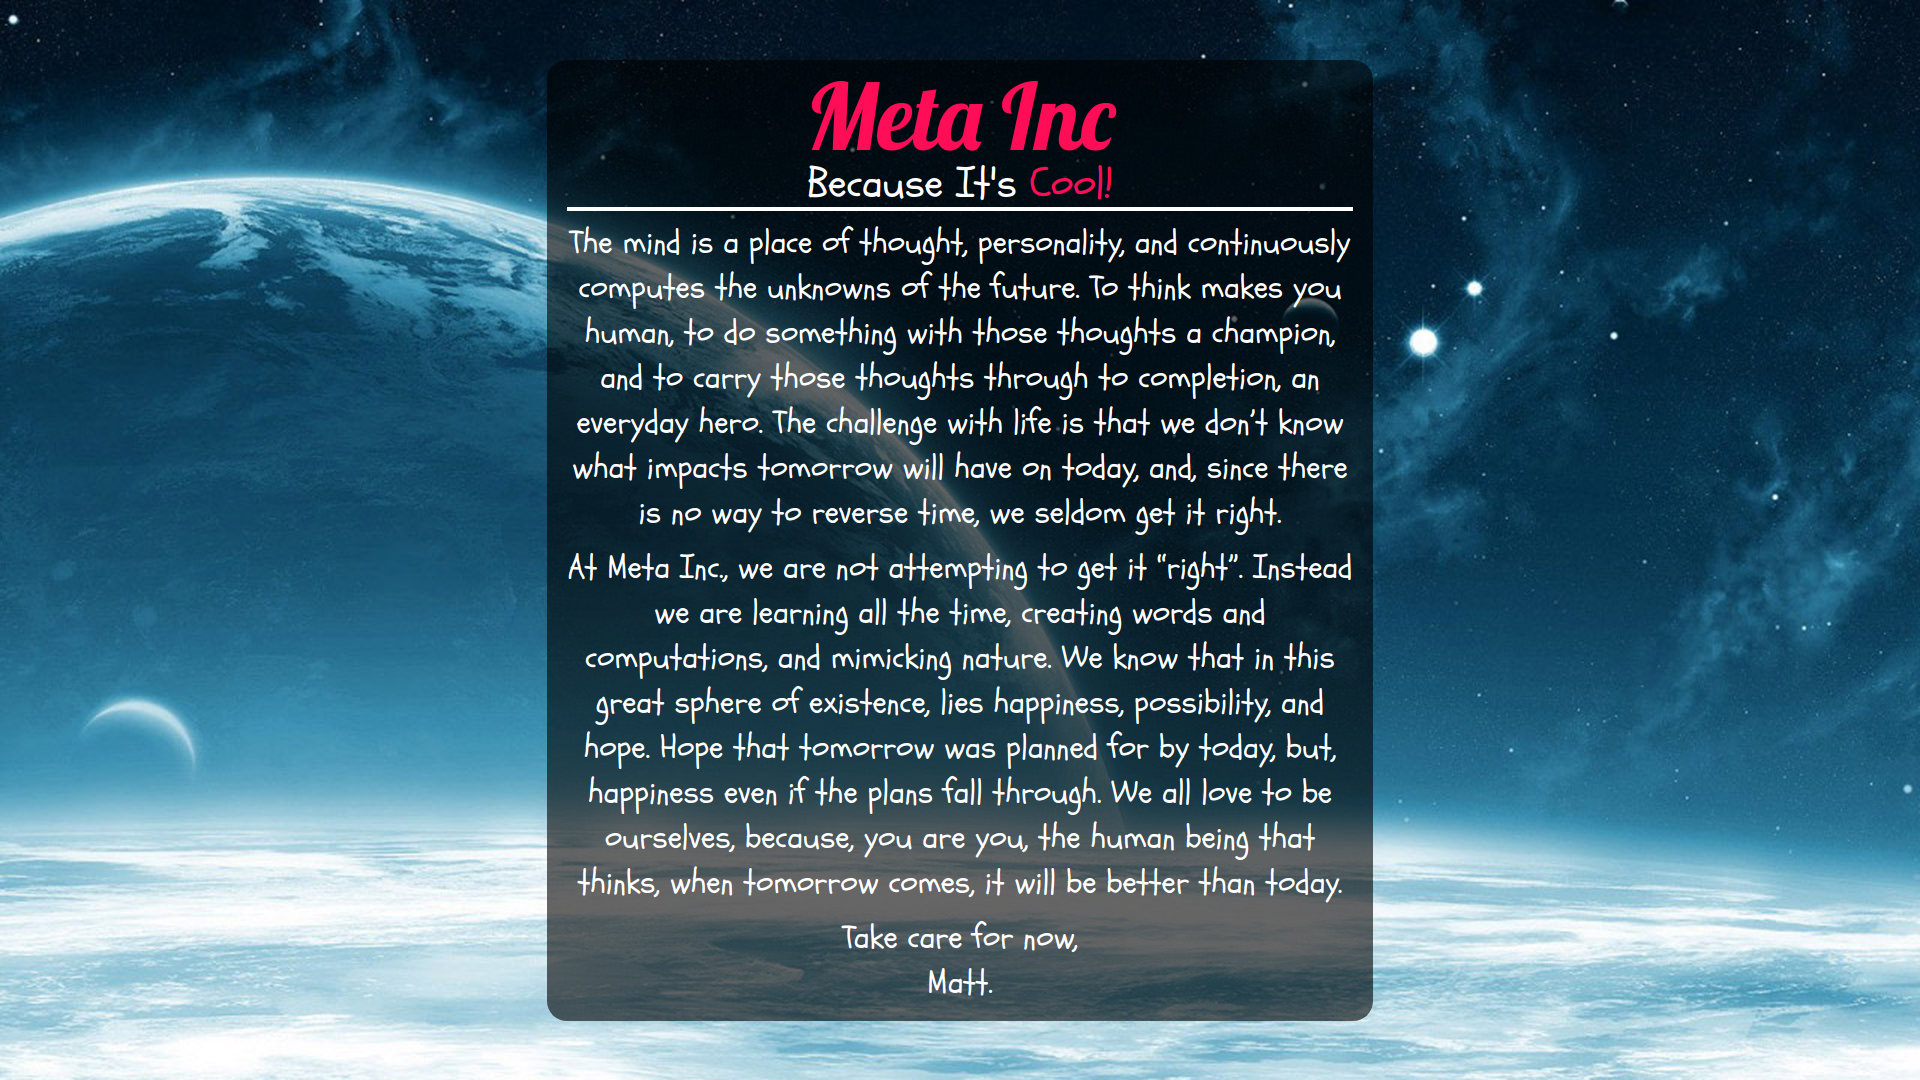
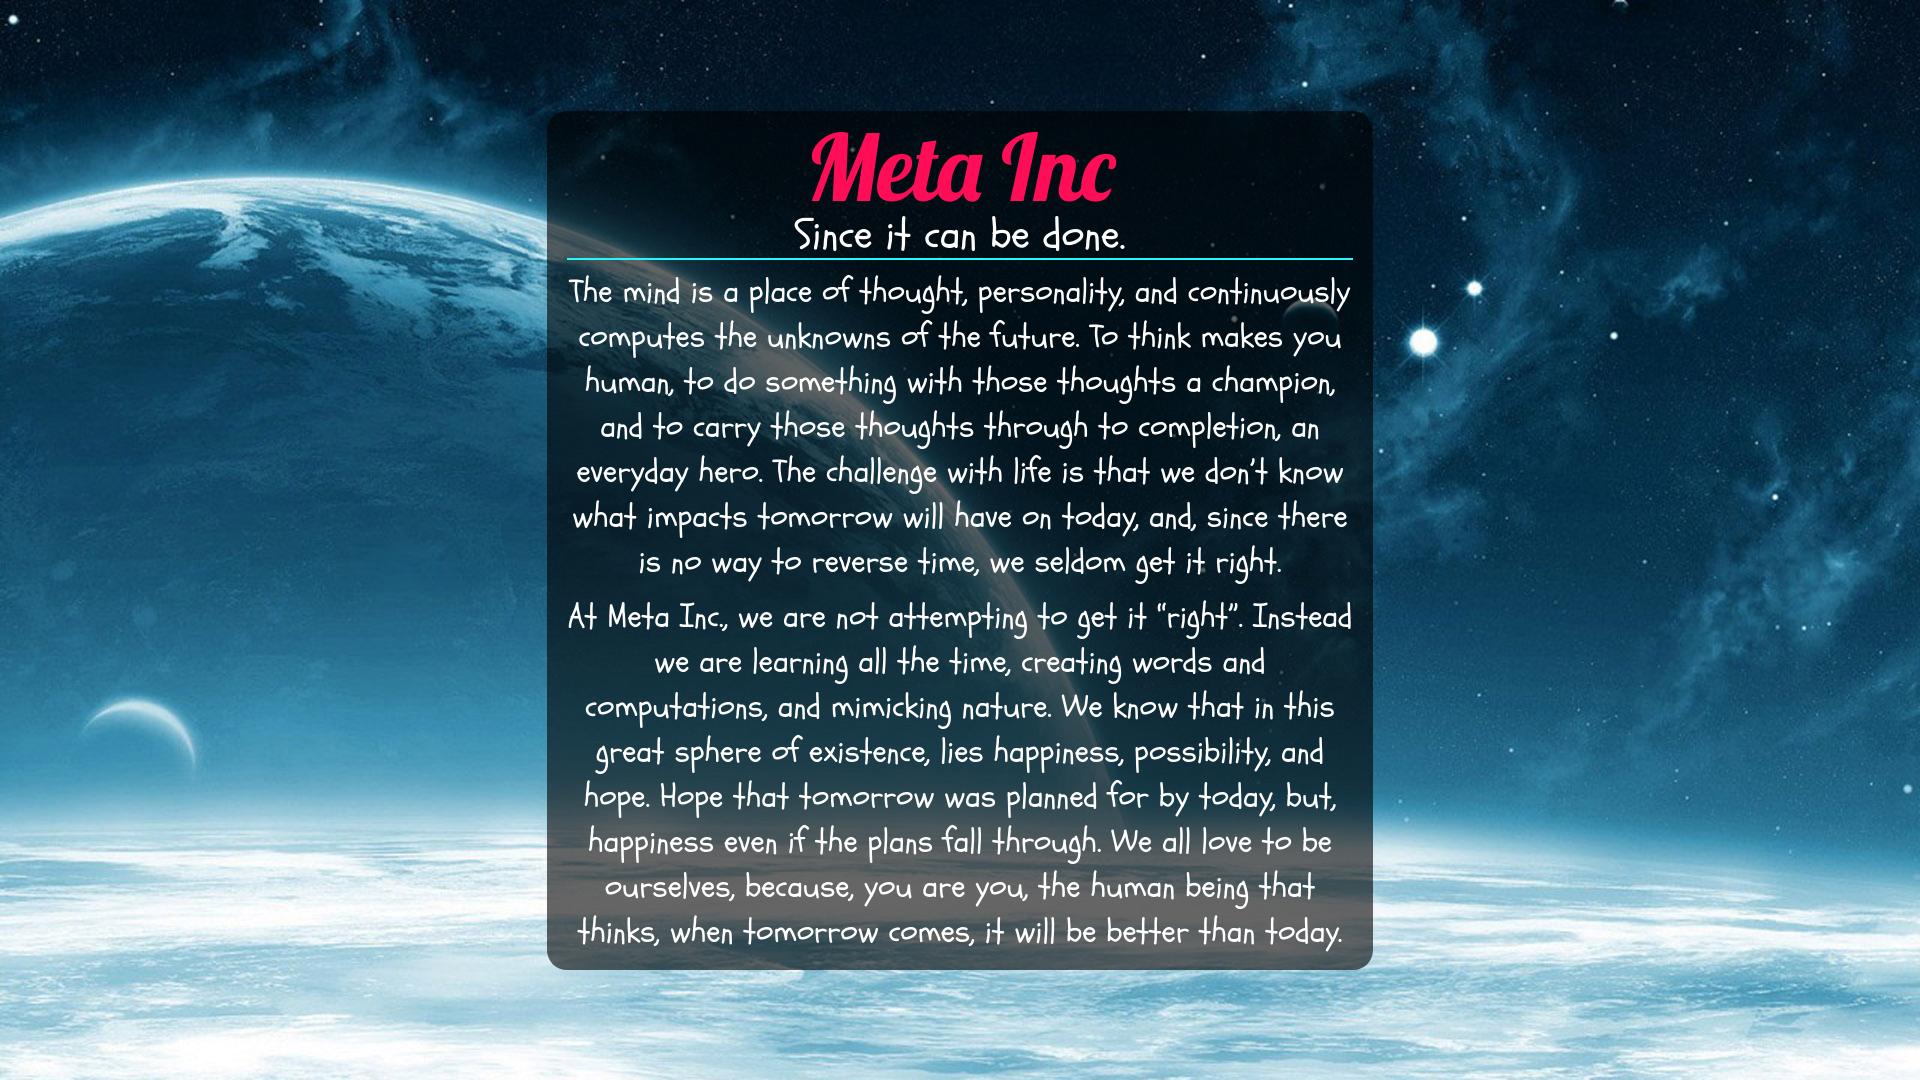
Used Bootstrap so different devices display well

Changed region(s): [[0.2812, 0.0306, 0.7188, 0.9472]]

diff --git a/index.html b/index.html
@@ -11,9 +11,9 @@
     <body>
         <div class="container-fluid">
 	          <div class="row">
-                <div class="col-sm-3">
+                <div class="col-xs-1 col-sm-1 col-md-2 col-lg-3">
                 </div>
-                <div class="col-sm-6 out-pad">
+                <div class="col-xs-10 col-sm-10 col-md-8 col-lg-6 out-pad">
                     <div id="main">
 	                      <h1>Meta Inc</h1>
                         <h2>Since it can be done.</h2>

diff --git a/README.md b/README.md
@@ -7,8 +7,7 @@ A website for a theoretical company.
 
 ## Usage
 
-Load the index.html page in your web-browser
-
+Go to [Meta Inc.](http://www.meta-inc.co)
 
 ## License
 
